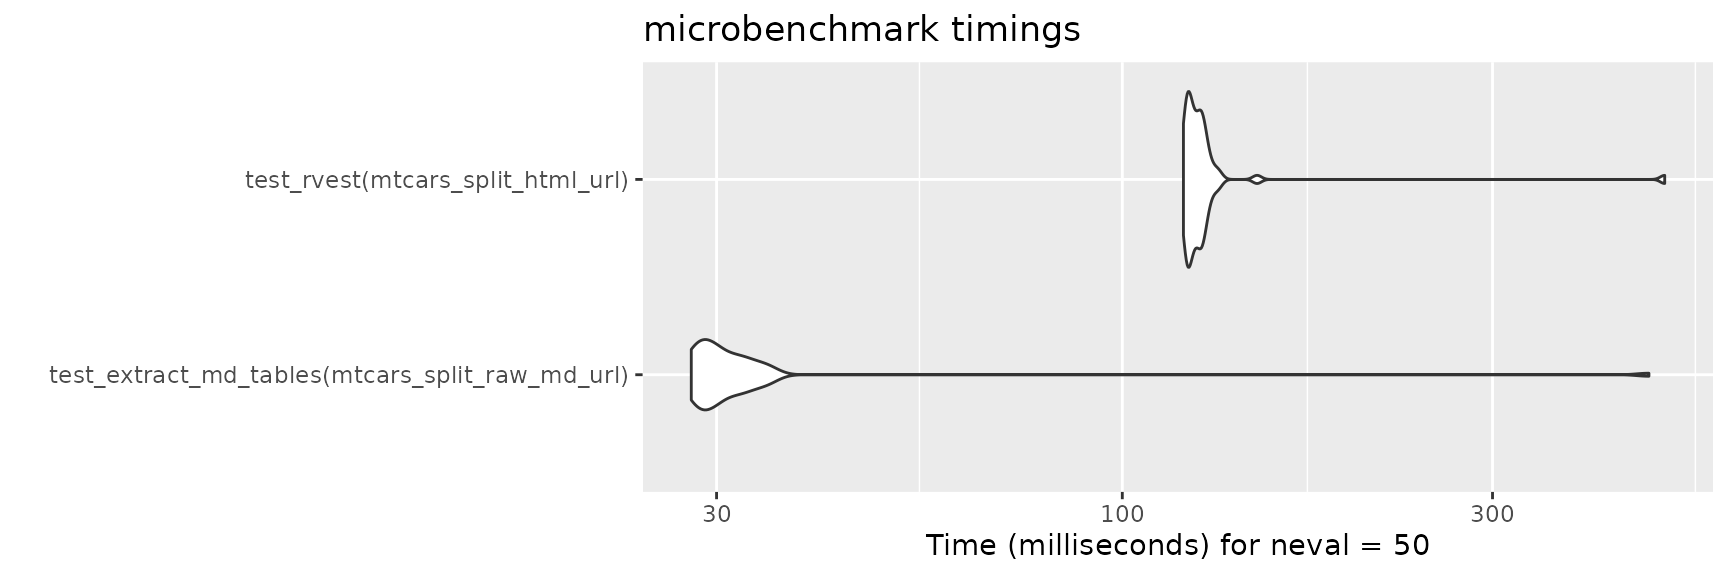
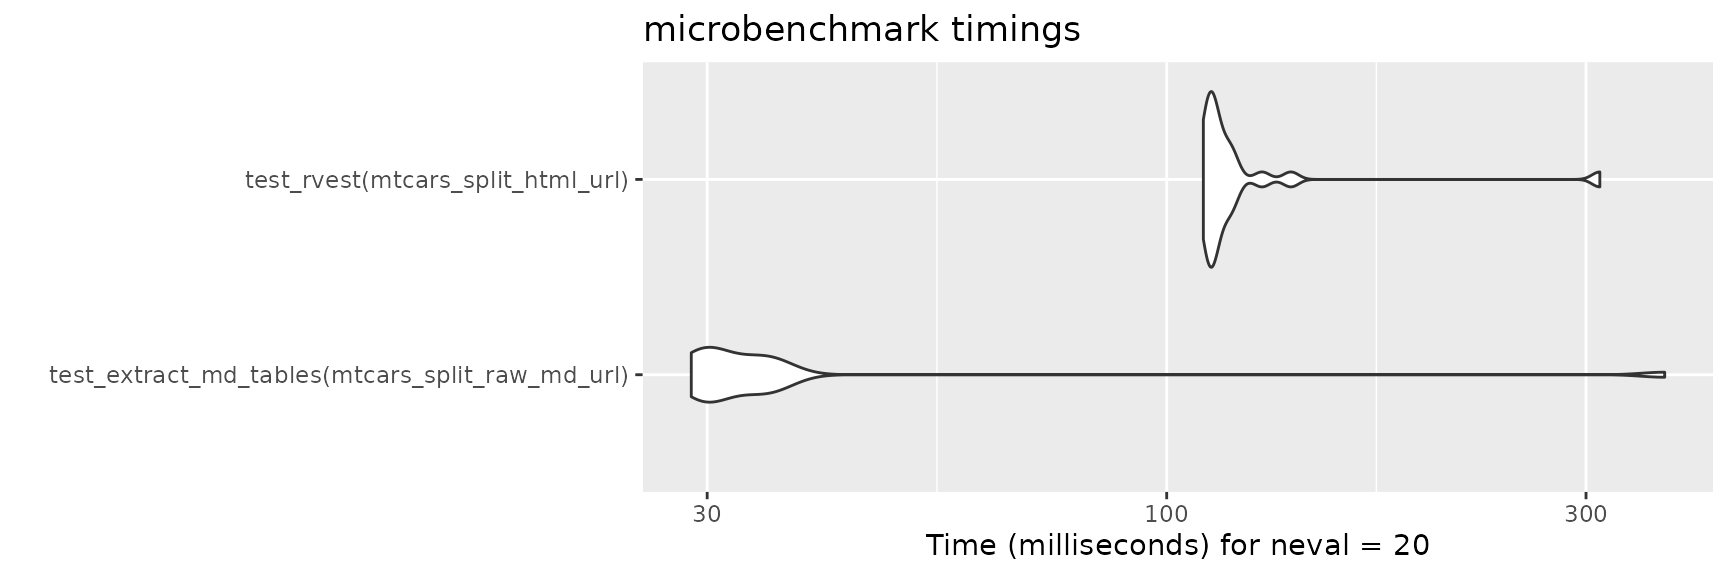
Deploying to gh-pages from @ jrdnbradford/readMDTable@0a8a813771ba77fb9435cdcc8d9085a192564094 🚀

diff --git a/articles/rvest-benchmarks.html b/articles/rvest-benchmarks.html
@@ -20,7 +20,7 @@
 
     <a class="navbar-brand me-2" href="../index.html">readMDTable</a>
 
-    <small class="nav-text text-muted me-auto" data-bs-toggle="tooltip" data-bs-placement="bottom" title="">0.3.0.9004</small>
+    <small class="nav-text text-muted me-auto" data-bs-toggle="tooltip" data-bs-placement="bottom" title="">0.3.1</small>
 
 
     <button class="navbar-toggler" type="button" data-bs-toggle="collapse" data-bs-target="#navbar" aria-controls="navbar" aria-expanded="false" aria-label="Toggle navigation">
@@ -112,7 +112,7 @@ file with multiple tables and other non-table content.</p>
 <span><span class="va">resp</span> <span class="op">&lt;-</span> <span class="fu">microbenchmark</span><span class="fu">::</span><span class="fu"><a href="https://rdrr.io/pkg/microbenchmark/man/microbenchmark.html" class="external-link">microbenchmark</a></span><span class="op">(</span></span>
 <span>  <span class="fu">test_extract_md_tables</span><span class="op">(</span><span class="va">mtcars_split_raw_md_url</span><span class="op">)</span>,</span>
 <span>  <span class="fu">test_rvest</span><span class="op">(</span><span class="va">mtcars_split_html_url</span><span class="op">)</span>,</span>
-<span>  times <span class="op">=</span> <span class="fl">50</span></span>
+<span>  times <span class="op">=</span> <span class="fl">20</span></span>
 <span><span class="op">)</span></span>
 <span></span>
 <span><span class="fu">ggplot2</span><span class="fu">::</span><span class="fu"><a href="https://ggplot2.tidyverse.org/reference/autoplot.html" class="external-link">autoplot</a></span><span class="op">(</span><span class="va">resp</span><span class="op">)</span></span></code></pre></div>
@@ -130,7 +130,7 @@ table file.</p>
 <span><span class="va">resp</span> <span class="op">&lt;-</span> <span class="fu">microbenchmark</span><span class="fu">::</span><span class="fu"><a href="https://rdrr.io/pkg/microbenchmark/man/microbenchmark.html" class="external-link">microbenchmark</a></span><span class="op">(</span></span>
 <span>  <span class="fu">test_read_md_table</span><span class="op">(</span><span class="va">mtcars_raw_md_url</span><span class="op">)</span>,</span>
 <span>  <span class="fu">test_rvest</span><span class="op">(</span><span class="va">mtcars_html_url</span><span class="op">)</span>,</span>
-<span>  times <span class="op">=</span> <span class="fl">50</span></span>
+<span>  times <span class="op">=</span> <span class="fl">20</span></span>
 <span><span class="op">)</span></span>
 <span></span>
 <span><span class="fu">ggplot2</span><span class="fu">::</span><span class="fu"><a href="https://ggplot2.tidyverse.org/reference/autoplot.html" class="external-link">autoplot</a></span><span class="op">(</span><span class="va">resp</span><span class="op">)</span></span></code></pre></div>
@@ -149,7 +149,7 @@ stored in memory.</p>
 <span><span class="va">resp</span> <span class="op">&lt;-</span> <span class="fu">microbenchmark</span><span class="fu">::</span><span class="fu"><a href="https://rdrr.io/pkg/microbenchmark/man/microbenchmark.html" class="external-link">microbenchmark</a></span><span class="op">(</span></span>
 <span>  <span class="fu">test_extract_md_tables</span><span class="op">(</span><span class="va">mtcars_raw_md_file</span><span class="op">)</span>,</span>
 <span>  <span class="fu">test_rvest</span><span class="op">(</span><span class="va">mtcars_html_file</span><span class="op">)</span>,</span>
-<span>  times <span class="op">=</span> <span class="fl">50</span></span>
+<span>  times <span class="op">=</span> <span class="fl">100</span></span>
 <span><span class="op">)</span></span>
 <span></span>
 <span><span class="fu">ggplot2</span><span class="fu">::</span><span class="fu"><a href="https://ggplot2.tidyverse.org/reference/autoplot.html" class="external-link">autoplot</a></span><span class="op">(</span><span class="va">resp</span><span class="op">)</span></span></code></pre></div>
@@ -167,7 +167,7 @@ already retrieved and stored in memory.</p>
 <span><span class="va">resp</span> <span class="op">&lt;-</span> <span class="fu">microbenchmark</span><span class="fu">::</span><span class="fu"><a href="https://rdrr.io/pkg/microbenchmark/man/microbenchmark.html" class="external-link">microbenchmark</a></span><span class="op">(</span></span>
 <span>  <span class="fu">test_read_md_table</span><span class="op">(</span><span class="va">raw_md</span><span class="op">)</span>,</span>
 <span>  <span class="fu">test_rvest</span><span class="op">(</span><span class="va">html</span><span class="op">)</span>,</span>
-<span>  times <span class="op">=</span> <span class="fl">50</span></span>
+<span>  times <span class="op">=</span> <span class="fl">100</span></span>
 <span><span class="op">)</span></span>
 <span></span>
 <span><span class="fu">ggplot2</span><span class="fu">::</span><span class="fu"><a href="https://ggplot2.tidyverse.org/reference/autoplot.html" class="external-link">autoplot</a></span><span class="op">(</span><span class="va">resp</span><span class="op">)</span></span></code></pre></div>

diff --git a/index.html b/index.html
@@ -23,7 +23,7 @@
 
     <a class="navbar-brand me-2" href="index.html">readMDTable</a>
 
-    <small class="nav-text text-muted me-auto" data-bs-toggle="tooltip" data-bs-placement="bottom" title="">0.3.0.9004</small>
+    <small class="nav-text text-muted me-auto" data-bs-toggle="tooltip" data-bs-placement="bottom" title="">0.3.1</small>
 
 
     <button class="navbar-toggler" type="button" data-bs-toggle="collapse" data-bs-target="#navbar" aria-controls="navbar" aria-expanded="false" aria-label="Toggle navigation">
@@ -70,7 +70,7 @@
 <!-- badges: start -->
 
 <p>readMDTable helps convert raw markdown tables from a string, file, or URL to tibbles.</p>
-<p>Many sites (like GitHub) convert markdown tables into HTML tables, making both available. See the vignette <a href="https://jrdnbradford.github.io/readMDTable/articles/rvest-benchmarks.html">Benchmarking Against rvest</a> to help determine if you should use readMDTable or <a href="https://rvest.tidyverse.org/" class="external-link">rvest</a>.</p>
+<p>Many sites (like GitHub) convert markdown tables into HTML tables, making both available. See the vignette <a href="https://jrdnbradford.github.io/readMDTable/articles/rvest-benchmarks.html">Benchmarking Against rvest</a> to help determine if you should use readMDTable or <a href="https://rvest.tidyverse.org/" class="external-link">rvest</a> in those circumstances.</p>
 <div class="section level2">
 <h2 id="installation">Installation<a class="anchor" aria-label="anchor" href="#installation"></a>
 </h2>
@@ -246,7 +246,8 @@
 <span><span class="co">#&gt; Warning: ✖ Content in provided `file` does not match the readMDTable regex.</span></span>
 <span><span class="co">#&gt; ℹ File an issue at https://github.com/jrdnbradford/readMDTable/issues if this</span></span>
 <span><span class="co">#&gt;   warning is in error.</span></span>
-<span><span class="co">#&gt; Warning: ℹ Attempting to read in content does not match the readMDTable regex.</span></span>
+<span><span class="co">#&gt; Warning: ℹ Attempting to read in content that does not match the readMDTable</span></span>
+<span><span class="co">#&gt; regex.</span></span>
 <span><span class="co">#&gt; Rows: 3 Columns: 4</span></span>
 <span><span class="co">#&gt; ── Column specification ────────────────────────────────────────────────────────</span></span>
 <span><span class="co">#&gt; Delimiter: "|"</span></span>

diff --git a/news/index.html b/news/index.html
@@ -7,7 +7,7 @@
 
     <a class="navbar-brand me-2" href="../index.html">readMDTable</a>
 
-    <small class="nav-text text-muted me-auto" data-bs-toggle="tooltip" data-bs-placement="bottom" title="">0.3.0.9004</small>
+    <small class="nav-text text-muted me-auto" data-bs-toggle="tooltip" data-bs-placement="bottom" title="">0.3.1</small>
 
 
     <button class="navbar-toggler" type="button" data-bs-toggle="collapse" data-bs-target="#navbar" aria-controls="navbar" aria-expanded="false" aria-label="Toggle navigation">
@@ -42,11 +42,11 @@
     </div>
 
     <div class="section level2">
-<h2 class="pkg-version" data-toc-text="development version" id="readmdtable-development-version">readMDTable (development version)<a class="anchor" aria-label="anchor" href="#readmdtable-development-version"></a></h2>
-<ul><li>Add dependency on R (&gt;= 4.1.0) (<a href="https://github.com/jrdnbradford/readMDTable/issues/91" class="external-link">#91</a>)</li>
-<li>Fixed a typo in a <code>read_md_table</code> warning message</li>
-<li>Updated documentation for internal and exported functions</li>
-<li>Added alt text for <code>rvest-benchmarks</code> violin plots</li>
+<h2 class="pkg-version" data-toc-text="0.3.1" id="readmdtable-031">readMDTable 0.3.1<a class="anchor" aria-label="anchor" href="#readmdtable-031"></a></h2><p class="text-muted">CRAN release: 2025-01-25</p>
+<ul><li>Add dependency on R (&gt;= 4.1.0) (<a href="https://github.com/jrdnbradford/readMDTable/issues/92" class="external-link">#92</a>)</li>
+<li>Fixed a typo in a <code>read_md_table</code> warning message (<a href="https://github.com/jrdnbradford/readMDTable/issues/86" class="external-link">#86</a>)</li>
+<li>Updated documentation for internal and exported functions (<a href="https://github.com/jrdnbradford/readMDTable/issues/88" class="external-link">#88</a>)</li>
+<li>Added alt text for <code>rvest-benchmarks</code> violin plots (<a href="https://github.com/jrdnbradford/readMDTable/issues/90" class="external-link">#90</a>)</li>
 </ul></div>
     <div class="section level2">
 <h2 class="pkg-version" data-toc-text="0.3.0" id="readmdtable-030">readMDTable 0.3.0<a class="anchor" aria-label="anchor" href="#readmdtable-030"></a></h2><p class="text-muted">CRAN release: 2025-01-07</p>

diff --git a/authors.html b/authors.html
@@ -7,7 +7,7 @@
 
     <a class="navbar-brand me-2" href="index.html">readMDTable</a>
 
-    <small class="nav-text text-muted me-auto" data-bs-toggle="tooltip" data-bs-placement="bottom" title="">0.3.0.9004</small>
+    <small class="nav-text text-muted me-auto" data-bs-toggle="tooltip" data-bs-placement="bottom" title="">0.3.1</small>
 
 
     <button class="navbar-toggler" type="button" data-bs-toggle="collapse" data-bs-target="#navbar" aria-controls="navbar" aria-expanded="false" aria-label="Toggle navigation">
@@ -55,13 +55,13 @@
 
       <p>Bradford J (2025).
 <em>readMDTable: Read Markdown Tables into Tibbles</em>.
-R package version 0.3.0.9004, https://jrdnbradford.github.io/readMDTable/, <a href="https://github.com/jrdnbradford/readMDTable" class="external-link">https://github.com/jrdnbradford/readMDTable</a>.
+R package version 0.3.1, https://jrdnbradford.github.io/readMDTable/, <a href="https://github.com/jrdnbradford/readMDTable" class="external-link">https://github.com/jrdnbradford/readMDTable</a>.
 </p>
       <pre>@Manual{,
   title = {readMDTable: Read Markdown Tables into Tibbles},
   author = {Jordan Bradford},
   year = {2025},
-  note = {R package version 0.3.0.9004, https://jrdnbradford.github.io/readMDTable/},
+  note = {R package version 0.3.1, https://jrdnbradford.github.io/readMDTable/},
   url = {https://github.com/jrdnbradford/readMDTable},
 }</pre>
     </div>

diff --git a/reference/readMDTable-package.html b/reference/readMDTable-package.html
@@ -9,7 +9,7 @@ Efficient reading of raw markdown tables into tibbles. Designed to accept conten
 
     <a class="navbar-brand me-2" href="../index.html">readMDTable</a>
 
-    <small class="nav-text text-muted me-auto" data-bs-toggle="tooltip" data-bs-placement="bottom" title="">0.3.0.9004</small>
+    <small class="nav-text text-muted me-auto" data-bs-toggle="tooltip" data-bs-placement="bottom" title="">0.3.1</small>
 
 
     <button class="navbar-toggler" type="button" data-bs-toggle="collapse" data-bs-target="#navbar" aria-controls="navbar" aria-expanded="false" aria-label="Toggle navigation">

diff --git a/404.html b/404.html
@@ -21,7 +21,7 @@
 
     <a class="navbar-brand me-2" href="https://jrdnbradford.github.io/readMDTable/index.html">readMDTable</a>
 
-    <small class="nav-text text-muted me-auto" data-bs-toggle="tooltip" data-bs-placement="bottom" title="">0.3.0.9004</small>
+    <small class="nav-text text-muted me-auto" data-bs-toggle="tooltip" data-bs-placement="bottom" title="">0.3.1</small>
 
 
     <button class="navbar-toggler" type="button" data-bs-toggle="collapse" data-bs-target="#navbar" aria-controls="navbar" aria-expanded="false" aria-label="Toggle navigation">

diff --git a/articles/index.html b/articles/index.html
@@ -7,7 +7,7 @@
 
     <a class="navbar-brand me-2" href="../index.html">readMDTable</a>
 
-    <small class="nav-text text-muted me-auto" data-bs-toggle="tooltip" data-bs-placement="bottom" title="">0.3.0.9004</small>
+    <small class="nav-text text-muted me-auto" data-bs-toggle="tooltip" data-bs-placement="bottom" title="">0.3.1</small>
 
 
     <button class="navbar-toggler" type="button" data-bs-toggle="collapse" data-bs-target="#navbar" aria-controls="navbar" aria-expanded="false" aria-label="Toggle navigation">

diff --git a/reference/extract_md_tables.html b/reference/extract_md_tables.html
@@ -7,7 +7,7 @@
 
     <a class="navbar-brand me-2" href="../index.html">readMDTable</a>
 
-    <small class="nav-text text-muted me-auto" data-bs-toggle="tooltip" data-bs-placement="bottom" title="">0.3.0.9004</small>
+    <small class="nav-text text-muted me-auto" data-bs-toggle="tooltip" data-bs-placement="bottom" title="">0.3.1</small>
 
 
     <button class="navbar-toggler" type="button" data-bs-toggle="collapse" data-bs-target="#navbar" aria-controls="navbar" aria-expanded="false" aria-label="Toggle navigation">

diff --git a/reference/index.html b/reference/index.html
@@ -7,7 +7,7 @@
 
     <a class="navbar-brand me-2" href="../index.html">readMDTable</a>
 
-    <small class="nav-text text-muted me-auto" data-bs-toggle="tooltip" data-bs-placement="bottom" title="">0.3.0.9004</small>
+    <small class="nav-text text-muted me-auto" data-bs-toggle="tooltip" data-bs-placement="bottom" title="">0.3.1</small>
 
 
     <button class="navbar-toggler" type="button" data-bs-toggle="collapse" data-bs-target="#navbar" aria-controls="navbar" aria-expanded="false" aria-label="Toggle navigation">

diff --git a/reference/read_md_table.html b/reference/read_md_table.html
@@ -7,7 +7,7 @@
 
     <a class="navbar-brand me-2" href="../index.html">readMDTable</a>
 
-    <small class="nav-text text-muted me-auto" data-bs-toggle="tooltip" data-bs-placement="bottom" title="">0.3.0.9004</small>
+    <small class="nav-text text-muted me-auto" data-bs-toggle="tooltip" data-bs-placement="bottom" title="">0.3.1</small>
 
 
     <button class="navbar-toggler" type="button" data-bs-toggle="collapse" data-bs-target="#navbar" aria-controls="navbar" aria-expanded="false" aria-label="Toggle navigation">

diff --git a/reference/read_md_table_example.html b/reference/read_md_table_example.html
@@ -7,7 +7,7 @@
 
     <a class="navbar-brand me-2" href="../index.html">readMDTable</a>
 
-    <small class="nav-text text-muted me-auto" data-bs-toggle="tooltip" data-bs-placement="bottom" title="">0.3.0.9004</small>
+    <small class="nav-text text-muted me-auto" data-bs-toggle="tooltip" data-bs-placement="bottom" title="">0.3.1</small>
 
 
     <button class="navbar-toggler" type="button" data-bs-toggle="collapse" data-bs-target="#navbar" aria-controls="navbar" aria-expanded="false" aria-label="Toggle navigation">

diff --git a/LICENSE.html b/LICENSE.html
@@ -7,7 +7,7 @@
 
     <a class="navbar-brand me-2" href="index.html">readMDTable</a>
 
-    <small class="nav-text text-muted me-auto" data-bs-toggle="tooltip" data-bs-placement="bottom" title="">0.3.0.9004</small>
+    <small class="nav-text text-muted me-auto" data-bs-toggle="tooltip" data-bs-placement="bottom" title="">0.3.1</small>
 
 
     <button class="navbar-toggler" type="button" data-bs-toggle="collapse" data-bs-target="#navbar" aria-controls="navbar" aria-expanded="false" aria-label="Toggle navigation">
